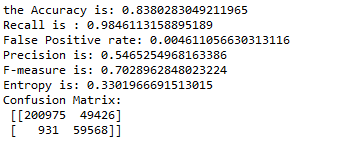
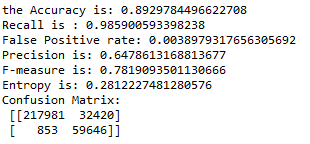
leakyRelu

Changed region(s): [[0.0, 0.4444, 0.7258, 0.9722], [0.0, 0.0278, 0.9581, 0.3056], [0.0, 0.3333, 0.7258, 0.4167]]

diff --git a/New/KDD10Percentage/V2/V2ANN/Model7/Model7_w100_IMFResidual.py b/New/KDD10Percentage/V2/V2ANN/Model7/Model7_w100_IMFResidual.py
@@ -57,16 +57,22 @@ from keras.models import Sequential
 from keras.layers import Dense,Dropout
 from keras.utils import plot_model
 
+from keras.layers import LeakyReLU
+
 # Initialising the ANN
 classifier = Sequential()
 
 # Adding the input layer and the first hidden layer
-classifier.add(Dense(output_dim = 16, init = 'uniform', activation = 'relu', input_dim = 8))
+classifier.add(Dense(output_dim = 16, init = 'uniform', activation = 'linear', input_dim = 8))
+
+classifier.add(LeakyReLU(alpha=0.01))
 
 classifier.add(Dropout(0.2))
 
 #Adding a second hidden layer
-classifier.add(Dense(output_dim = 16, init = 'uniform', activation = 'relu'))
+classifier.add(Dense(output_dim = 16, init = 'uniform', activation = 'linear'))
+
+classifier.add(LeakyReLU(alpha=0.01))
 
 classifier.add(Dropout(0.2))
 

diff --git a/New/KDD10Percentage/V2/V2ANN/README.md b/New/KDD10Percentage/V2/V2ANN/README.md
@@ -37,7 +37,7 @@ activation function output layer = softmax
 ## Model7-Window100-First IMF and Residual
 ![alt text](Model7_w100_IMFResidual.png)
 
-activation function between hidden layer = relu
+activation function between hidden layer = LeakyReLU
 
 activation function output layer = sigmoid
 
